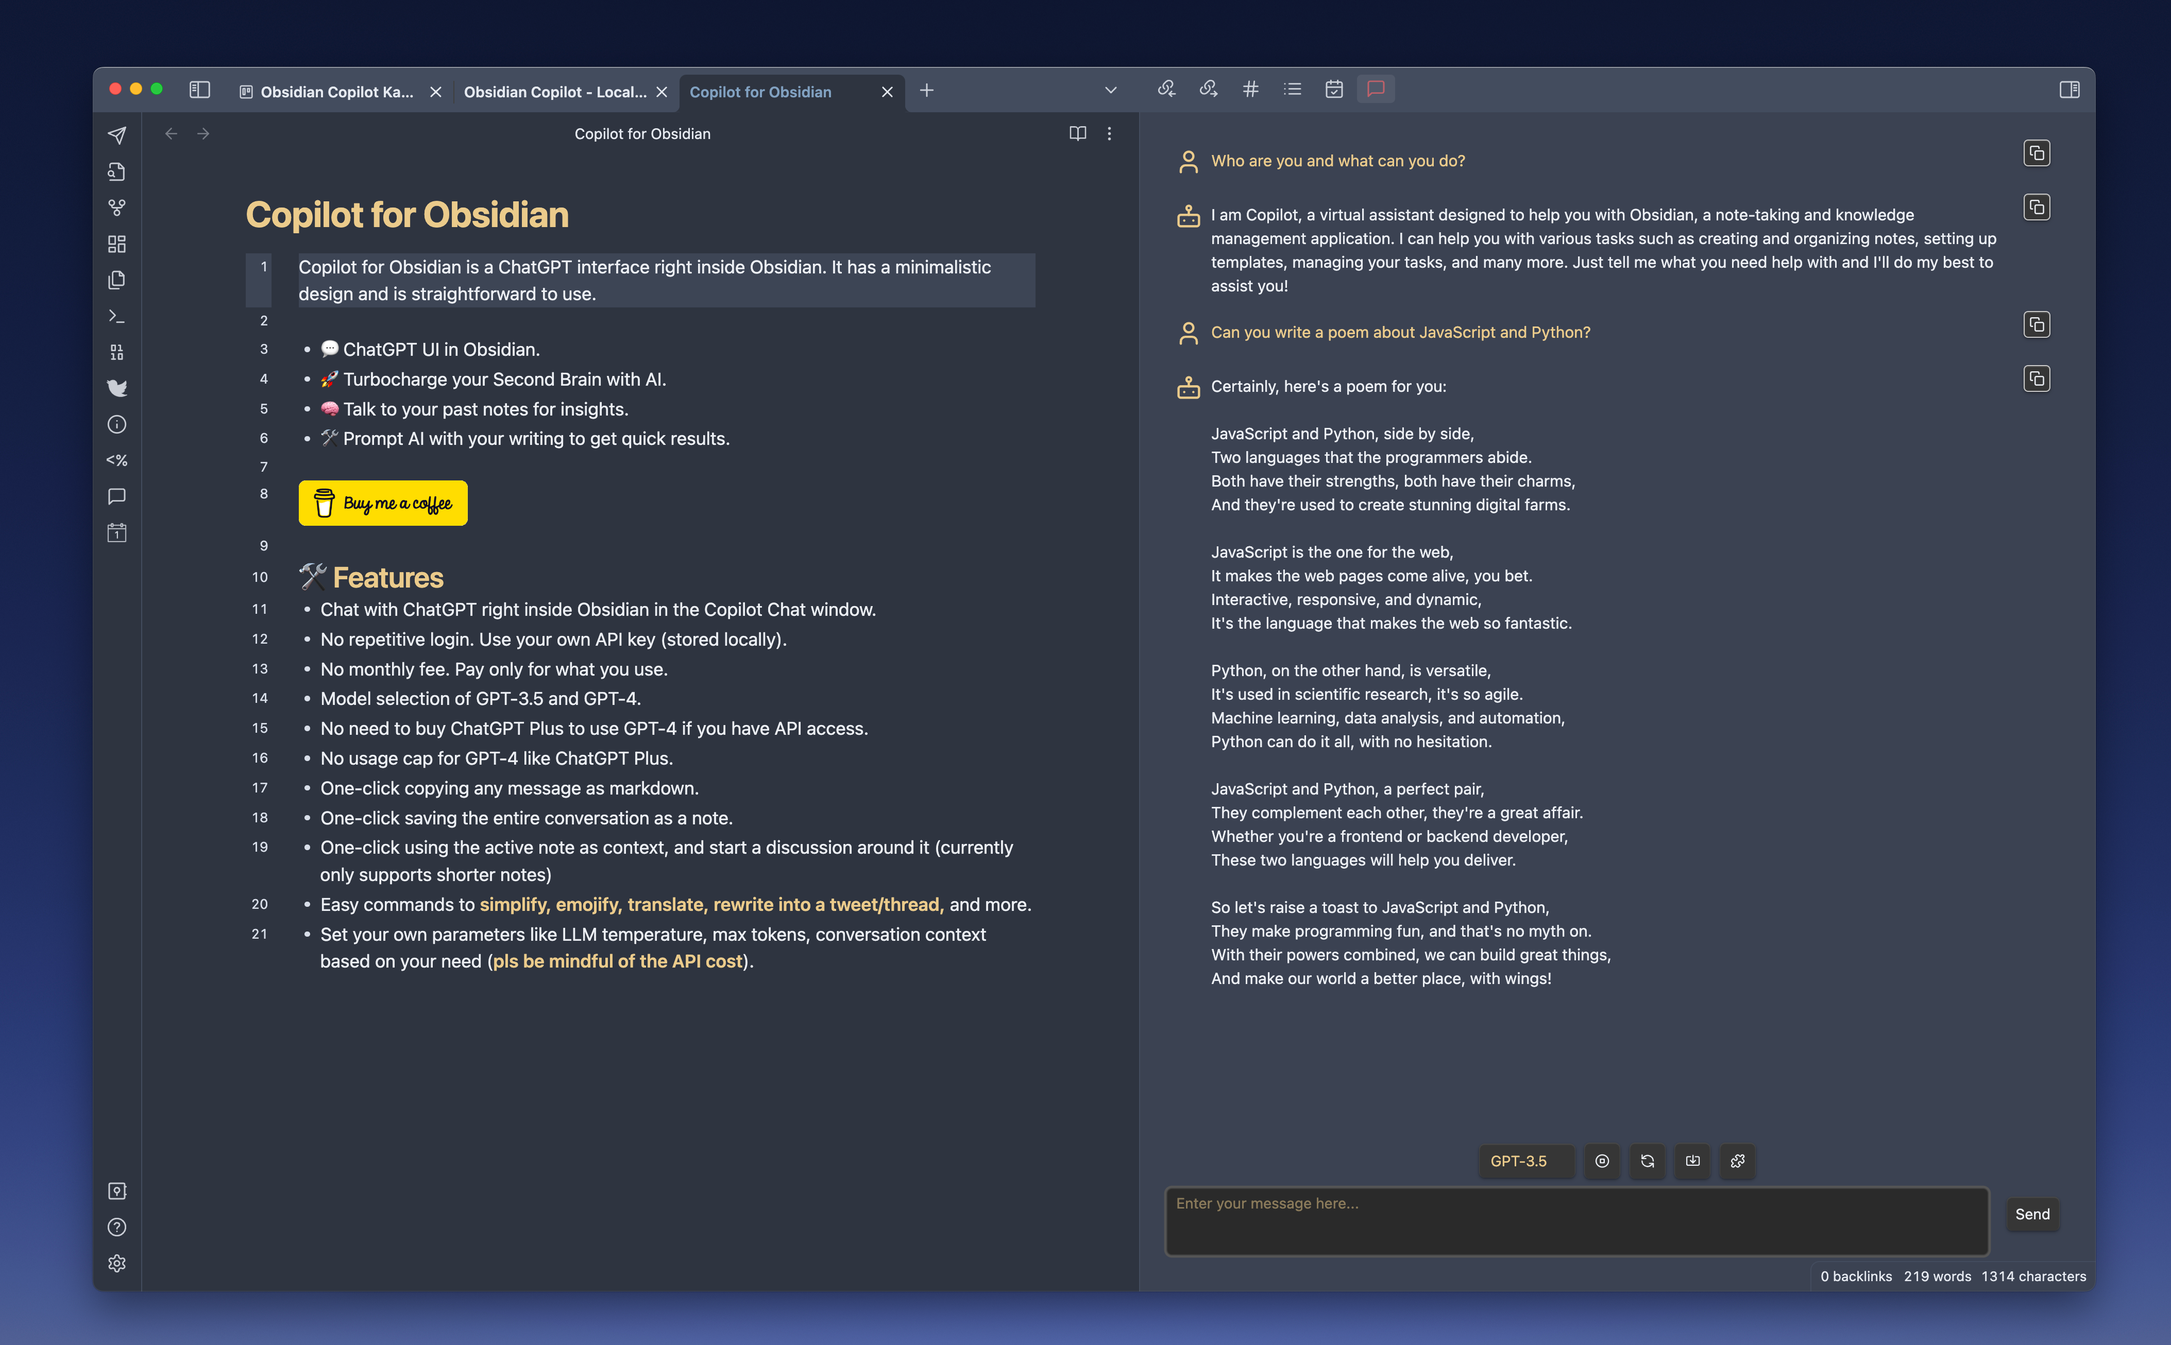
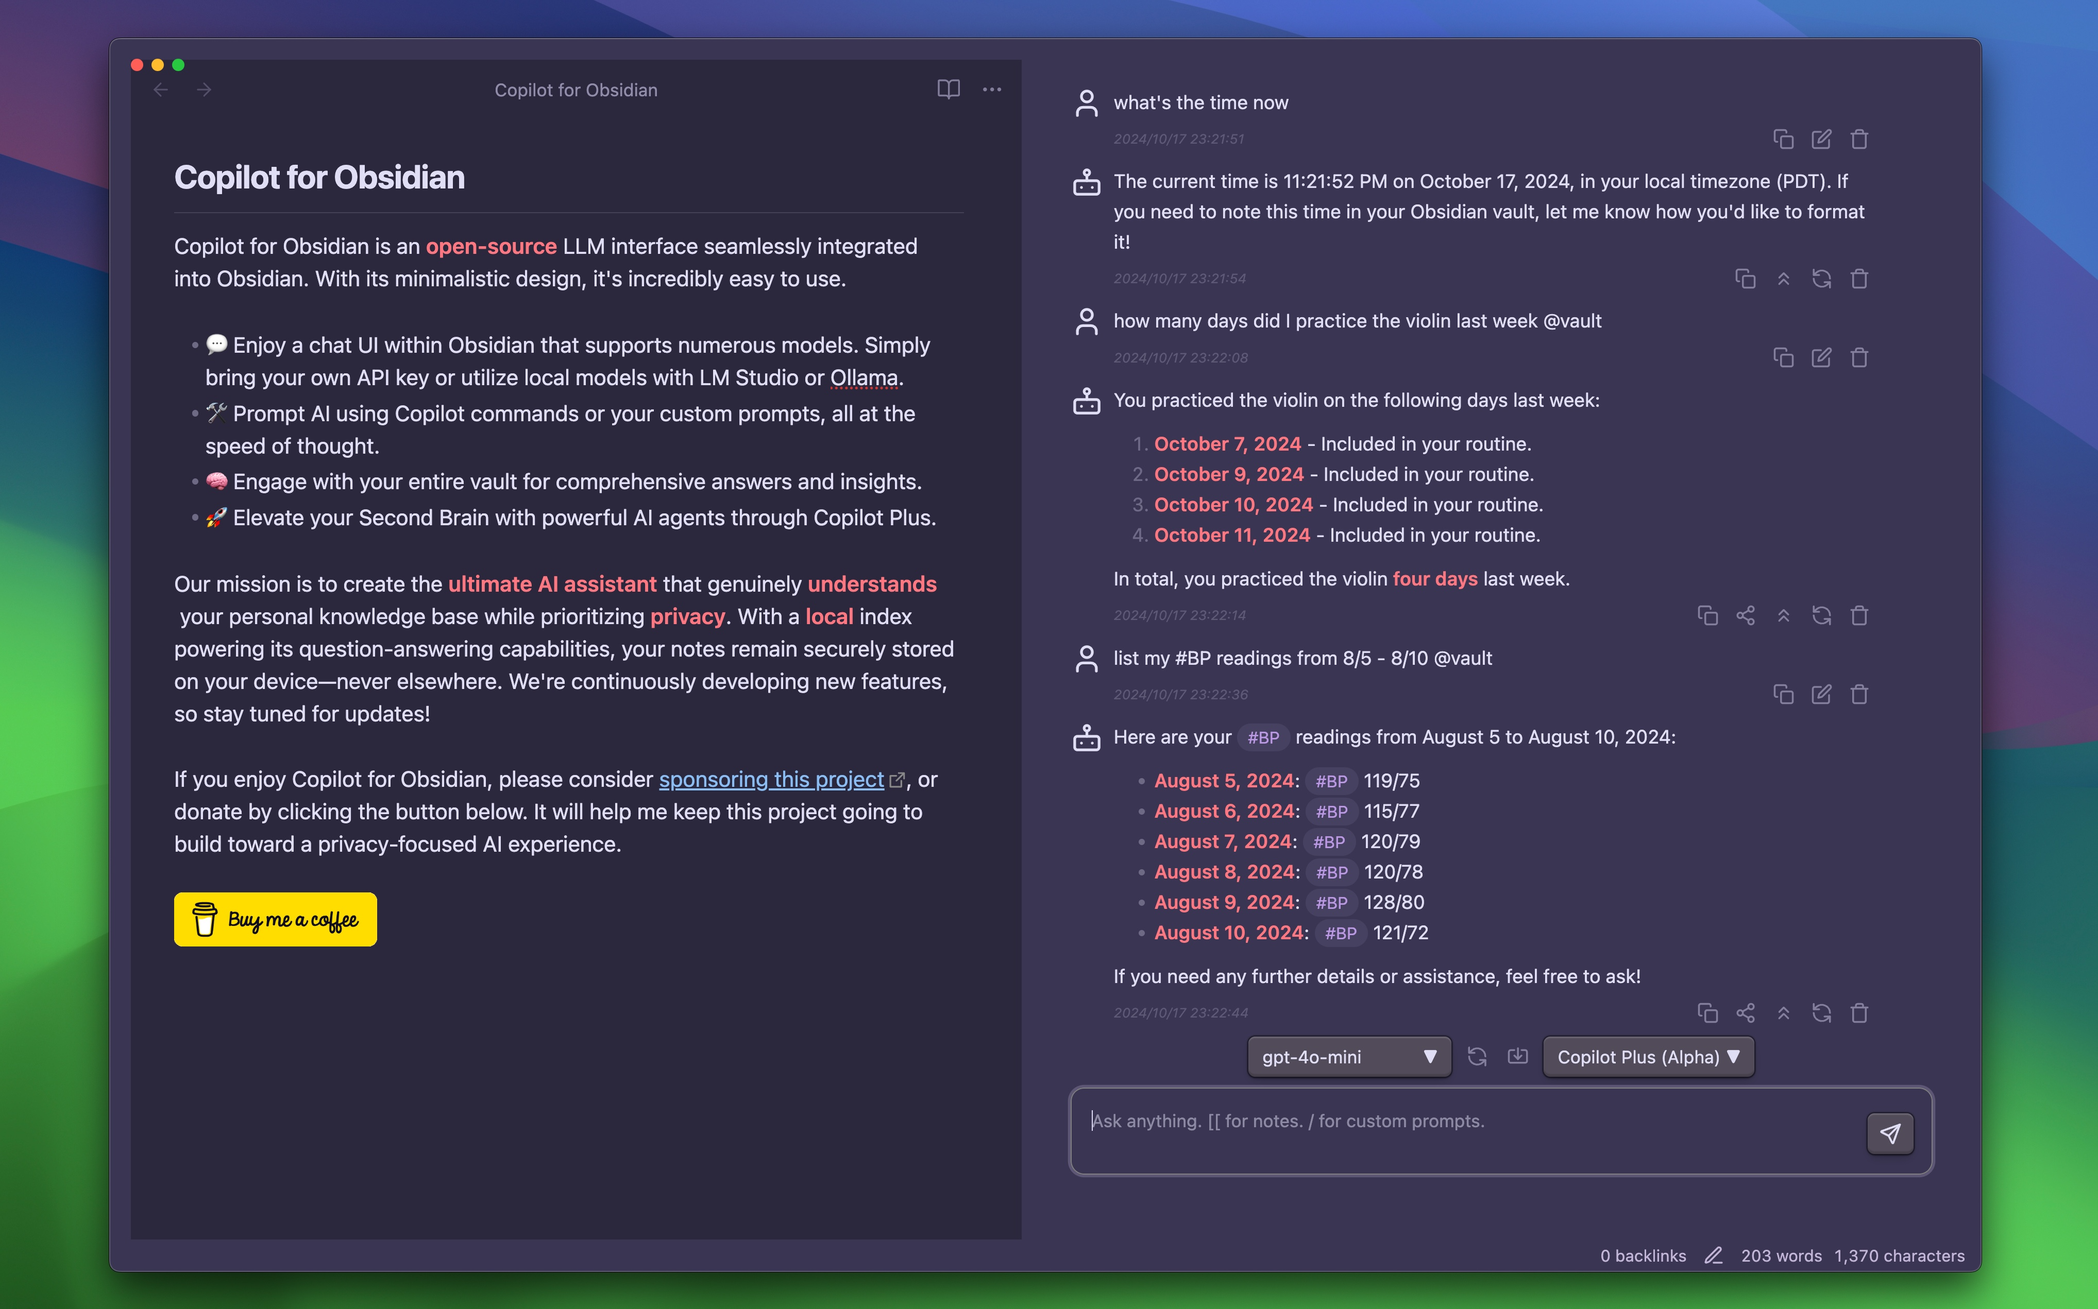
Update readme

diff --git a/README.md b/README.md
@@ -2,14 +2,16 @@
 
 ![GitHub release (latest SemVer)](https://img.shields.io/github/v/release/logancyang/obsidian-copilot?style=for-the-badge&sort=semver) ![Obsidian Downloads](https://img.shields.io/badge/dynamic/json?logo=obsidian&color=%23483699&label=downloads&query=%24%5B%22copilot%22%5D.downloads&url=https%3A%2F%2Fraw.githubusercontent.com%2Fobsidianmd%2Fobsidian-releases%2Fmaster%2Fcommunity-plugin-stats.json&style=for-the-badge)
 
-Copilot for Obsidian is a **free** and **open-source** LLM interface right inside Obsidian. It has a minimalistic design and is straightforward to use.
+Copilot for Obsidian is an **open-source** LLM interface right inside Obsidian. It has a minimalistic design and is straightforward to use.
 
-- 💬 ChatGPT UI in Obsidian.
-- 🛠 Prompt AI with your writing using Copilot commands to get quick results.
-- 🚀 Turbocharge your Second Brain with AI.
-- 🧠 Talk to your past notes for insights.
+- 💬 Chat UI in Obsidian with support for countless models, just BYO API key or use local models with LM Studio or Ollama.
+- 🛠 Prompt AI with Copilot commands or your own custom prompts at the speed of thought.
+- 🧠 Talk to your entire vault for answers and insights.
+- 🚀 Turbocharge your Second Brain with powerful AI agents (Copilot Plus).
 
-My goal is to make this AI assistant **local-first** and **privacy-focused**. It has a **local** vector store and can work with **local** models for chat and QA **completely offline**! More features are under construction. Stay tuned!
+My goal is to make it the **ultimate AI assistant** that truly **understands** your personal knowledge base while being **privacy-focused**.
+
+It has a **local** index that powers the question-answering. Your notes are always stored on your own device and nowhere else! More features are under construction. Stay tuned!
 
 <img src="./images/ui.png" alt="UI">
 
@@ -22,68 +24,52 @@ SPECIAL THANKS TO OUR TOP SPONSORS:
 
 [Changelog](https://github.com/logancyang/obsidian-copilot/releases)
 
-#### v2.6.0: MOBILE SUPPORT is here! 🎉🎉🎉
-
-<a href="https://youtu.be/l-x_QwSNghE" target="_blank"><img src="./images/thumbnail-260.png" width="700" /></a>
-
-- Huge thanks to our awesome [@gianluca-venturini](https://github.com/gianluca-venturini) for his incredible work on mobile support! Now you can use Copilot on your phone and tablet! 🎉🎉🎉
-- Complete rehaul of how models work in Copilot settings. Now you can add any model to your model picker provided its name, model provider, API key and base url! No more waiting for me to add new models!
-- Say goodbye to CORS errors for both chat models and embedding! The new model table in settings now lets you turn on "CORS" for individual chat models if you see CORS issue with them. And embedding models are immune to CORS errors by default!
-  - Caveat: this is powered by Obsidian API's `requestUrl` which does not support "streaming" of LLM responses. So streaming is disabled whenever you have CORS on in Copilot settings. Please upvote [this feature request](https://forum.obsidian.md/t/support-streaming-the-request-and-requesturl-response-body/87381) to let Obsidian know your need for streaming!
-
-#### 🎉 HIGHLY ANTICIPATED v2.5.0: Vault QA (BETA) mode (with local embedding support)! Claude 3! 🎉🎉🎉
-
-<a href="https://youtu.be/NSoKRYNlOls" target="_blank"><img src="./images/thumbnail-vault-qa.png" width="700" /></a>
-
-The highly anticipated biggest update of all is here!
-
-The brand new **Vault QA (BETA)** mode allows you to chat with your whole vault, powered by a **local** vector store. Ask questions and get answers with **cited sources**!
-
-What's more, with Ollama **local embeddings** and **local chat models**, this mode works **completely offline**! This is a huge step toward truly private and local AI assistance inside Obsidian!
-
-(Huge shoutout to @AntoineDao for working with me on Vault QA mode!)
-
-#### Model Providers
-
-**OpenAI**, **Anthropic**, **Azure OpenAI**, **Google Gemini**, **OpenRouter**, **GROQ**, **3rd Party Models with OpenAI-Compatible API**, **LM Studio** and **Ollama** are supported model providers.
-
-**OpenRouter.ai** hosts some of the best open-source models at the moment, such as MistralAI's new models, check out their websites for all the good stuff they have!
-
-**LM Studio** and **Ollama** are the 2 best choices for running local models on your own machine. Please check out the super simple setup guide [here](local_copilot.md). Don't forget to flex your creativity in custom prompts using local models!
-
 ## 🛠 Features
 
-- Chat with ChatGPT right inside Obsidian in the Copilot Chat window.
-- No repetitive login. Use your own API key (stored locally).
-- No monthly fee. Pay only for what you use.
-- Model selection of OpenAI, Azure, Google, Claude 3, OpenRouter and **local** models powered by LM Studio and Ollama.
-- No need to buy ChatGPT Plus to use GPT-4.
-- No usage cap for GPT-4 like ChatGPT Plus.
-- One-click copying any message as markdown.
-- One-click saving the entire conversation as a note.
-- **Chat with your whole vault** by selecting "Vault QA" mode. Ask questions and get **cited responses**!
-- All QA modes are powered by retrieval augmentation with a **local vector store**. No sending your data to a cloud-based vector search service!
-- Easy commands to **simplify, emojify, summarize, translate, change tone, fix grammar, rewrite into a tweet/thread, count tokens** and more.
-- Set your own parameters like LLM temperature, max tokens, conversation context based on your need (**pls be mindful of the API cost**).
-- **User custom prompt**! You can _add, apply, edit, delete_ your custom prompts, persisted in your local Obsidian environment! Be creative with your own prompt templates, sky is the limit!
-- **Local model** support for **offline chat** using LM Studio and Ollama.
+- Engage with numerous LLMs seamlessly within Obsidian via the Copilot Chat window.
+- Access GPT-4 or Claude 3 without purchasing ChatGPT Plus or Claude Pro—simply use your own API key (stored locally) and pay as you go for the best value.
+- Choose from a variety of models, including OpenAI, Azure, Google, Claude, OpenRouter, Groq, Cohere, or **any third-party models with OpenAI-compatible APIs** via Custom Model.
+- Customize parameters like LLM temperature, max tokens, and conversation context to suit your needs (**be mindful of API costs**).
+- Utilize local models powered by LM Studio and Ollama.
+- Easily copy, edit, or insert any message to your note with a single click.
+- Save or load entire conversations to or from a note.
+- To mention a note in Copilot Chat, simply type `[[` and provide the note title.
+- Use simple commands to **simplify, emojify, summarize, translate, change tone, fix grammar, rewrite into a tweet/thread, count tokens**, and more.
+- Take advantage of powerful **User Custom Prompts**! You can _add, apply, edit, and delete_ your custom prompts, all stored locally in your Obsidian vault as markdown. Trigger any custom prompt with a simple `/` in the chat input!
+- **Interact with your entire vault** using "Vault QA" mode. Ask questions and receive **cited responses**!
+- All QA modes leverage retrieval augmentation with a **local index**, ensuring your data isn't sent to a cloud-based vector search service.
+- **Copilot Plus (in limited Alpha)**: supercharge your second brain with a **powerful AI agent** right inside your Obsidian vault. More powerful than anything else out there. [Learn more here](https://obsidiancopilot.com).
 
-## 🎬 Demos
+Chat and Vault QA modes are completely free to use. Copilot Plus is currently in limited alpha and free to use for alpha testers. If you are interested in joining the alpha, please consider sponsoring the project! [learn more here](https://obsidiancopilot.com).
 
-#### 🤗 New to Copilot? Quick Guide for Beginners:
+## Model Providers
 
-<a href="https://www.youtube.com/watch?v=jRCDAg2sck8" target="_blank"><img src="./images/thumbnail.png" width="700" /></a>
+**OpenAI**, **Anthropic**, **Azure OpenAI**, **Google Gemini**, **Cohere**, **OpenRouter**, **GROQ**, and any **3rd Party Models with OpenAI-Compatible API** are supported. You can easily add them via Custom Model in Copilot settings.
 
-- Chat with ChatGPT, copy messages to note, save entire conversation as a note
-- QA around your past note
-- Fix grammar and spelling, Summarize, Simplify, Emojify, Remove URLs
-- Generate glossary, table of contents
-- Translate to a language of your choosing
-- You can find all Copilot commands in your command palette
+**LM Studio** and **Ollama** are supported for local models. Please check out the super simple setup guide [here](local_copilot.md). Don't forget to flex your creativity in custom prompts using local models!
 
-To use Copilot, you need API keys from one of the LLM providers such as OpenAI, Azure OpenAI, Gemini, OpenRouter (Free!). You can also use it offline with LM Studio or Ollama!
+## 🤗 New to Copilot? Quick Guide for Beginners
 
-Once you put your valid API key in the Copilot setting, don't forget to click Save and Reload. If you are a new user and have trouble setting it up, please open an issue and describe it in detail.
+The simplest way to get started is to get an OpenAI API key and set it in the Copilot settings. Then simply pick `gpt-4o` or `gpt-4o-mini` in the model dropdown to start chatting. [Learn more here](https://obsidiancopilot.com).
+
+Try going through all the Copilot commands in the command palette, and see what they do. Checkout my [youtube channel](https://youtube.com/@loganhallucinates?sub_confirmation=1) for previous demos.
+
+#### 🔧 Copilot Settings
+
+Explore the "General Settings" to select your default chat model and customize parameters such as temperature, max tokens, and conversation context to fit your needs.
+
+<img src="./images/settings.png" alt="Settings" width="700">
+
+Enter your API keys in "API settings" for existing providers.
+
+<img src="./images/api-settings.png" alt="API Settings" width="700">
+
+Add model using the "Custom Model" form.
+
+- When you add any model from the existing list of providers, there's no need to provide the URL.
+- When you add your own custom models, you can add them with the endpoint URL as long as they have OpenAI-compatible API.
+
+You can also use your own system prompt, choose between different embedding providers for Vault QA and more.
 
 #### 💬 User Custom Prompt: Create as Many Copilot Commands as You Like!
 
@@ -98,24 +84,14 @@ Check out this demo video below!
 
 This video shows how Advanced Custom Prompt works. This form of templating enables a lot more possibilities with long context window models. If you have your own creative cool use cases, don't hesitate to share them in the discussion or in the youtube comment section!
 
-#### 🔧 Copilot Settings
-
-The settings page lets you set your own temperature, max tokens, conversation context based on your need.
-
-New models will be added as I get access.
-
-You can also use your own system prompt, choose between different embedding providers such as OpenAI, CohereAI (their trial API is free and quite stable!) and Huggingface Inference API (free but sometimes times out).
-
-## ⚙ Installation
-
-Copilot for Obsidian is now available in **Obsidian Community Plugin**!
+## ⚙ Installation (recommended)
 
 - Open Community Plugins settings page, click on the Browse button.
 - Search for "Copilot" in the search bar and find the plugin with this exact name.
 - Click on the Install button.
 - Once the installation is complete, enable the Copilot plugin by toggling on its switch in the Community Plugins settings page.
 
-Now you can see the chat icon in your leftside ribbon, clicking on it will open the chat panel on the right! Don't forget to check out the Copilot commands available in the commands palette!
+Now you can see the chat icon in your leftside ribbon, clicking on it will open the chat panel on the right! Don't forget to provide your API keys in settings before using the plugin!
 
 #### ⛓ Manual Installation
 
@@ -125,7 +101,7 @@ Now you can see the chat icon in your leftside ribbon, clicking on it will open 
 
 ## 🔔 Note
 
-- The chat history is not saved by default. Please use "**Save as Note**" to save it. The note will have a title `Chat-Year_Month_Day-Hour_Minute_Second`, you can change its name as needed.
+- The chat history is not saved by default. Please check "**Autosave Chat**" in the setting if you would like to enable it. The note will have a title `<first-chat-message>@YYMMDD_HHMMSS`, you can change its name as needed.
 - "**New Chat**" clears all previous chat history. Again, please use "**Save as Note**" if you would like to save the chat.
 - You can set a very long context in the setting "**Conversation turns in context**" if needed.
 
@@ -143,15 +119,13 @@ Now you can see the chat icon in your leftside ribbon, clicking on it will open 
 <details>
   <summary>It's not using my note as context</summary>
 
-- Please don't forget to switch to "**QA**" in the Mode Selection dropdown in order to start the QA. Copilot does not have your note as context in "Chat" mode.
-  <img src="./images/faq-mode-switch.png" alt="Settings" width="500">
-- In fact, you don't have to click the button on the right before starting the QA. Switching to QA mode in the dropdown directly is enough for Copilot to read the note as context. The button on the right is only for when you'd like to manually rebuild the index for the active note, like, when you'd like to switch context to another note, or you think the current index is corrupted because you switched the embedding provider, etc.
-- Reference issue: https://github.com/logancyang/obsidian-copilot/issues/51
+- Please don't forget to switch to "**Vault QA**" in the Mode Selection dropdown in order to start the QA. Copilot does not have your note as context in "Chat" mode without an explicit `[[notetitle]]` in the message.
+<img src="./images/faq-mode-switch.png" alt="Settings" width="500">
 </details>
 <details>
   <summary>"insufficient_quota"</summary>
 
-- It might be because you haven't set up payment for your OpenAI account, or you exceeded your max monthly limit. OpenAI has a cap on how much you can use their API, usually $120 for individual users.
+- Most likely because **you haven't set up payment in your OpenAI account**, or you exceeded your max monthly limit. OpenAI has a cap on how much you can use their API, usually $120 for individual users.
 - Reference issue: https://github.com/logancyang/obsidian-copilot/issues/11
 </details>
 <details>
@@ -177,19 +151,18 @@ Now you can see the chat icon in your leftside ribbon, clicking on it will open 
 - Reference issue: https://github.com/logancyang/obsidian-copilot/issues/98
 </details>
 
-When opening an issue, please include relevant console logs. You can go to Copilot's settings and turn on "Debug mode" at the bottom for more console messages!
+When opening an issue, please follow the issue template and include relevant console logs. You can go to Copilot's settings and turn on "Debug mode" at the bottom for more console messages. On Mac, you can open the console by pressing `Cmd+Opt+I`. On Windows, you can open the console by pressing `Ctrl+Shift+I`.
 
 ## 📝 Planned features (feedback welcome)
 
-- New modes
-  - **Chat mode** (originally Conversation mode): You can now provide multiple notes at once as context in conversations, for LLMs with an extended context window.
-  - **QA mode**: You can **index any folder** and perform question and answer sessions using a **local** search index and Retrieval-Augmented Generation (RAG) system.
-- Support **embedded PDFs** as context
-- Interact with a **powerful AI agent** that knows your vault who can search, filter and use your notes as context to work with. Explore, brainstorm and research like never before!
+- Support **embedded PDFs** as context. Index PDFs in the vault locally same as notes.
+- Image support in chat.
+- User profile with different system prompts and model parameters for different use cases e.g. work, personal, creative writing, etc.
+- Interact with a **powerful AI agent** that knows your vault that has access to various tools like web search, note search, youtube video to markdown, etc. Explore, brainstorm and research like never before!
 
 ## 🙏 Thank You
 
-Did you know that [even the timer on Alexa needs internet access](https://twitter.com/logancyang/status/1720929870635802738)? In this era of corporate-dominated internet, I still believe there's room for powerful tech that's focused on privacy. A great **local** AI agent in Obsidian is the ultimate form of this plugin. If you share my vision, please consider [sponsoring this project](https://github.com/sponsors/logancyang) or buying me coffees!
+If you share my vision, please consider [sponsoring this project](https://github.com/sponsors/logancyang) or buying me some coffees!
 
 <a href="https://www.buymeacoffee.com/logancyang" target="_blank"><img src="https://cdn.buymeacoffee.com/buttons/v2/default-yellow.png" alt="Buy Me A Coffee" style="height: 40px !important;width: 150px !important;" ></a>
 
